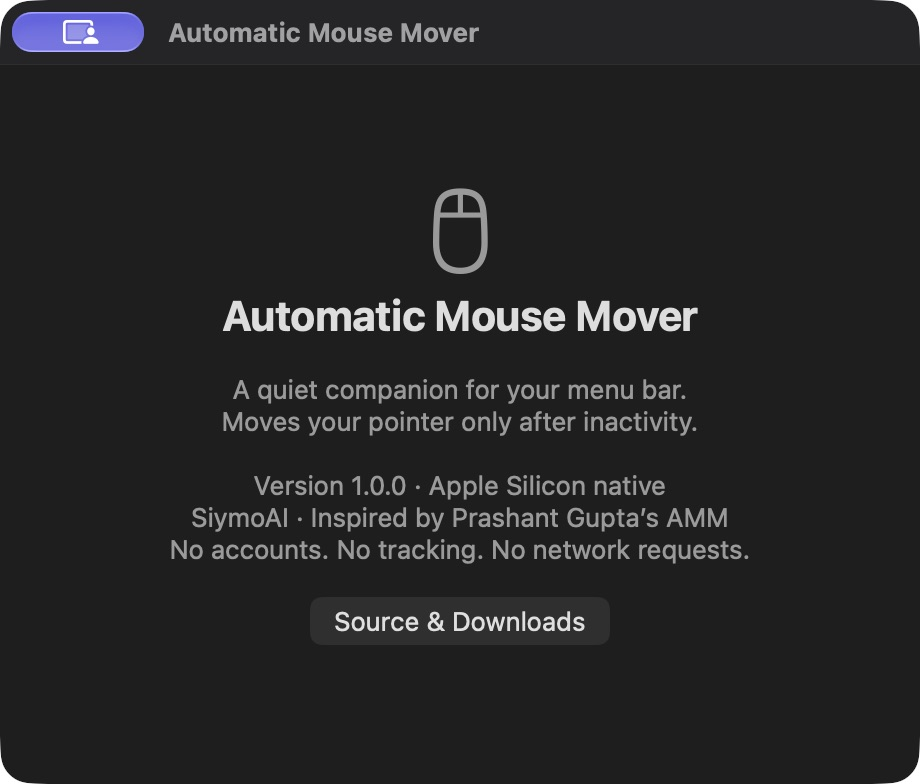
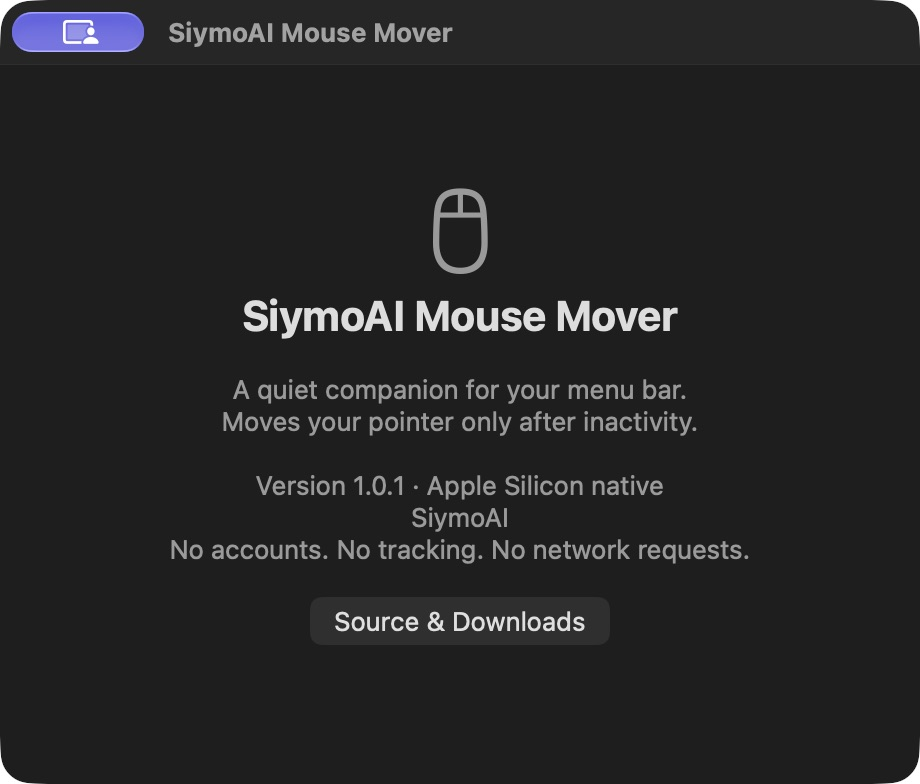
Rebrand desktop apps and installers as SiymoAI Mouse Mover

Changed region(s): [[0.213, 0.5816, 0.7913, 0.6735], [0.2435, 0.3673, 0.7609, 0.4286], [0.1826, 0.0306, 0.5174, 0.0612]]

diff --git a/macos/main.swift b/macos/main.swift
@@ -2,8 +2,8 @@ import AppKit
 import ApplicationServices
 import ServiceManagement
 
-let repository = "https://github.com/SiymoAI/automatic-mouse-mover-native"
-let appVersion = "1.0.0"
+let repository = "https://github.com/SiymoAI/siymo-mouse-mover"
+let appVersion = "1.0.1"
 
 final class AppDelegate: NSObject, NSApplicationDelegate, NSMenuDelegate {
     var statusItem: NSStatusItem!
@@ -40,12 +40,12 @@ final class AppDelegate: NSObject, NSApplicationDelegate, NSMenuDelegate {
         policy.interval = [30,60,120,300].contains(saved) ? Double(saved) : 60
         policy.setEnabled(defaults.object(forKey: "enabled") as? Bool ?? true, now: now)
         statusItem = NSStatusBar.system.statusItem(withLength: NSStatusItem.squareLength)
-        statusItem.button?.image = NSImage(systemSymbolName: "computermouse", accessibilityDescription: "Automatic Mouse Mover")
-        statusItem.button?.setAccessibilityLabel("Automatic Mouse Mover")
+        statusItem.button?.image = NSImage(systemSymbolName: "computermouse", accessibilityDescription: "SiymoAI Mouse Mover")
+        statusItem.button?.setAccessibilityLabel("SiymoAI Mouse Mover")
         menu.delegate = self
         menu.autoenablesItems = false
         stateItem.isEnabled = false; detailItem.isEnabled = false
-        menu.addItem(NSMenuItem(title: "Automatic Mouse Mover", action: nil, keyEquivalent: ""))
+        menu.addItem(NSMenuItem(title: "SiymoAI Mouse Mover", action: nil, keyEquivalent: ""))
         menu.addItem(stateItem); menu.addItem(detailItem); menu.addItem(.separator())
         startItem = add("Start", #selector(start)); stopItem = add("Stop", #selector(stop))
         let interval = NSMenuItem(title: "Move after inactivity", action: nil, keyEquivalent: "")
@@ -58,7 +58,7 @@ final class AppDelegate: NSObject, NSApplicationDelegate, NSMenuDelegate {
         loginItem = add("Launch at login", #selector(toggleLogin))
         menu.addItem(.separator())
         permissionItem = add("Allow mouse movement…", #selector(showPermissions))
-        _ = add("About Automatic Mouse Mover…", #selector(showAbout))
+        _ = add("About SiymoAI Mouse Mover…", #selector(showAbout))
         menu.addItem(.separator()); _ = add("Quit", #selector(quit), key: "q")
         statusItem.menu = menu
         let center = NSWorkspace.shared.notificationCenter
@@ -124,7 +124,7 @@ final class AppDelegate: NSObject, NSApplicationDelegate, NSMenuDelegate {
         loginItem.state = SMAppService.mainApp.status == .enabled ? .on : .off
         permissionItem.isHidden = AXIsProcessTrusted()
         statusItem.button?.appearsDisabled = !policy.enabled
-        statusItem.button?.toolTip = "Automatic Mouse Mover — \(state)"
+        statusItem.button?.toolTip = "SiymoAI Mouse Mover — \(state)"
         writeDiagnostics(state: state)
     }
     @objc func start() { policy.setEnabled(true, now: now); defaults.set(true, forKey: "enabled"); lastMessage = "Waiting for inactivity"; refresh(); if !AXIsProcessTrusted() && !testing { showPermissions() } }
@@ -140,13 +140,13 @@ final class AppDelegate: NSObject, NSApplicationDelegate, NSMenuDelegate {
     func showWindow(permission: Bool) {
         window?.close()
         let panel = NSWindow(contentRect: NSRect(x:0,y:0,width:460,height:360), styleMask: [.titled,.closable], backing: .buffered, defer: false)
-        panel.isReleasedWhenClosed = false; panel.title = permission ? "Allow mouse movement" : "Automatic Mouse Mover"; panel.center()
+        panel.isReleasedWhenClosed = false; panel.title = permission ? "Allow mouse movement" : "SiymoAI Mouse Mover"; panel.center()
         let content = NSStackView(); content.orientation = .vertical; content.alignment = .centerX; content.spacing = 16; content.translatesAutoresizingMaskIntoConstraints = false
         panel.contentView!.addSubview(content)
         NSLayoutConstraint.activate([content.leadingAnchor.constraint(equalTo: panel.contentView!.leadingAnchor, constant: 32), content.trailingAnchor.constraint(equalTo: panel.contentView!.trailingAnchor, constant: -32), content.centerYAnchor.constraint(equalTo: panel.contentView!.centerYAnchor)])
         let icon = NSImageView(image: NSImage(systemSymbolName: "computermouse", accessibilityDescription: nil)!); icon.symbolConfiguration = NSImage.SymbolConfiguration(pointSize: 40, weight: .regular); content.addArrangedSubview(icon)
-        let title = NSTextField(labelWithString: permission ? "One permission. Then you’re set." : "Automatic Mouse Mover"); title.font = .boldSystemFont(ofSize: 21); content.addArrangedSubview(title)
-        let text = NSTextField(wrappingLabelWithString: permission ? "Enable Automatic Mouse Mover in System Settings → Privacy & Security → Accessibility. This lets the app gently move your pointer after you stop using your Mac.\n\nThe app stays in your menu bar. It never records your screen or keystrokes." : "A quiet companion for your menu bar.\nMoves your pointer only after inactivity.\n\nVersion \(appVersion) · Apple Silicon native\nSiymoAI · Inspired by Prashant Gupta’s AMM\nNo accounts. No tracking. No network requests.")
+        let title = NSTextField(labelWithString: permission ? "One permission. Then you’re set." : "SiymoAI Mouse Mover"); title.font = .boldSystemFont(ofSize: 21); content.addArrangedSubview(title)
+        let text = NSTextField(wrappingLabelWithString: permission ? "Enable SiymoAI Mouse Mover in System Settings → Privacy & Security → Accessibility. This lets the app gently move your pointer after you stop using your Mac.\n\nThe app stays in your menu bar. It never records your screen or keystrokes." : "A quiet companion for your menu bar.\nMoves your pointer only after inactivity.\n\nVersion \(appVersion) · Apple Silicon native\nSiymoAI\nNo accounts. No tracking. No network requests.")
         text.alignment = .center; text.font = .systemFont(ofSize: 13); text.textColor = .secondaryLabelColor; content.addArrangedSubview(text)
         let button = NSButton(title: permission ? "Open Accessibility Settings" : "Source & Downloads", target: self, action: permission ? #selector(openAccessibility) : #selector(openSource)); button.bezelStyle = .rounded; content.addArrangedSubview(button)
         window = panel; panel.makeKeyAndOrderFront(nil); NSApp.activate(ignoringOtherApps: true)
@@ -166,7 +166,7 @@ final class AppDelegate: NSObject, NSApplicationDelegate, NSMenuDelegate {
     }
     func selfTest() {
         let previous = defaults.dictionaryRepresentation()
-        let originalEnabled = policy.enabled; let originalInterval = policy.interval
+        let previousEnabled = policy.enabled; let previousInterval = policy.interval
         menu.performActionForItem(at: menu.index(of: stopItem)); let stopOK = !policy.enabled && startItem.isEnabled && !stopItem.isEnabled
         menu.performActionForItem(at: menu.index(of: startItem))
         let startOK = policy.enabled && !startItem.isEnabled && stopItem.isEnabled
@@ -174,7 +174,7 @@ final class AppDelegate: NSObject, NSApplicationDelegate, NSMenuDelegate {
         sleeping = true; refresh(); let sleepOK = !available
         sleeping = false; sessionActive = false; refresh(); let inactiveOK = !available
         sessionActive = true
-        policy.interval = originalInterval; policy.setEnabled(originalEnabled, now: now)
+        policy.interval = previousInterval; policy.setEnabled(previousEnabled, now: now)
         for key in ["enabled","interval"] { if let value = previous[key] { defaults.set(value, forKey: key) } else { defaults.removeObject(forKey: key) } }
         let report: [String:Any] = ["passed":stopOK && startOK && intervalOK && sleepOK && inactiveOK,"stop":stopOK,"start":startOK,"interval":intervalOK,"sleep":sleepOK,"inactiveSession":inactiveOK,"menuBarOnly":NSApp.activationPolicy() == .accessory,"permission":AXIsProcessTrusted(),"architecture":"arm64"]
         if let diagnostics, let data = try? JSONSerialization.data(withJSONObject: report, options: [.prettyPrinted,.sortedKeys]) { try? data.write(to: diagnostics, options:.atomic) }

diff --git a/windows/SiymoMouseMover/Program.cs b/windows/SiymoMouseMover/Program.cs
@@ -1,17 +1,17 @@
 using System.Reflection;
 using System.Text.Json;
 using Microsoft.Win32;
-namespace AutomaticMouseMover;
+namespace SiymoMouseMover;
 internal static class Program
 {
     [STAThread] private static void Main(string[] args) {
         ApplicationConfiguration.Initialize();
-        using var mutex = new Mutex(true, "Local\\SiymoAI.AutomaticMouseMover", out bool created);
+        using var mutex = new Mutex(true, "Local\\SiymoAI.MouseMover", out bool created);
         if (!created) return;
         try { using var context = new TrayApp(args); Application.Run(context); }
         catch (Exception e) {
             if (args.Contains("--self-test")) { var i = Array.IndexOf(args, "--self-test"); if (i + 1 < args.Length) File.WriteAllText(args[i+1], JsonSerializer.Serialize(new { passed = false, error = e.ToString() })); }
-            else MessageBox.Show("Automatic Mouse Mover could not start.\n\n" + e.Message, "Automatic Mouse Mover", MessageBoxButtons.OK, MessageBoxIcon.Error);
+            else MessageBox.Show("SiymoAI Mouse Mover could not start.\n\n" + e.Message, "SiymoAI Mouse Mover", MessageBoxButtons.OK, MessageBoxIcon.Error);
         }
     }
 }
@@ -35,12 +35,12 @@ internal sealed class TrayApp : ApplicationContext
     private readonly Icon appIcon;
     internal TrayApp(string[] args) {
         testing = args.Contains("--self-test");
-        settingsPath = testing ? Path.Combine(Path.GetTempPath(), "amm-tests-" + Guid.NewGuid(), "settings.json") : Settings.DefaultPath;
+        settingsPath = testing ? Path.Combine(Path.GetTempPath(), "siymo-mouse-tests-" + Guid.NewGuid(), "settings.json") : Settings.DefaultPath;
         int d = Array.IndexOf(args, "--diagnostics"); diagnostics = d >= 0 && args.Length > d + 1 ? args[d+1] : null;
         settings = Settings.Load(settingsPath); Policy.IntervalSeconds = settings.IntervalSeconds; Policy.SetEnabled(settings.Enabled, Environment.TickCount64);
-        using var stream = Assembly.GetExecutingAssembly().GetManifestResourceStream("AutomaticMouseMover.AppIcon.ico")!;
+        using var stream = Assembly.GetExecutingAssembly().GetManifestResourceStream("SiymoMouseMover.AppIcon.ico")!;
         appIcon = new Icon(stream);
-        menu.Items.Add(new ToolStripMenuItem("Automatic Mouse Mover") { Enabled = false });
+        menu.Items.Add(new ToolStripMenuItem("SiymoAI Mouse Mover") { Enabled = false });
         state.Enabled = detail.Enabled = false; menu.Items.Add(state); menu.Items.Add(detail); menu.Items.Add(new ToolStripSeparator());
         start.Click += (_,_) => Start(); stop.Click += (_,_) => Stop(); menu.Items.Add(start); menu.Items.Add(stop);
         var interval = new ToolStripMenuItem("Move after inactivity");
@@ -49,9 +49,9 @@ internal sealed class TrayApp : ApplicationContext
             item.Click += (_,_) => SetInterval(seconds); interval.DropDownItems.Add(item); intervalItems.Add(item);
         }
         menu.Items.Add(interval); login.Click += (_,_) => ToggleLogin(); menu.Items.Add(login); menu.Items.Add(new ToolStripSeparator());
-        menu.Items.Add("About Automatic Mouse Mover…", null, (_,_) => ShowAbout()); menu.Items.Add(new ToolStripSeparator()); menu.Items.Add("Quit", null, (_,_) => ExitThread());
+        menu.Items.Add("About SiymoAI Mouse Mover…", null, (_,_) => ShowAbout()); menu.Items.Add(new ToolStripSeparator()); menu.Items.Add("Quit", null, (_,_) => ExitThread());
         menu.Opening += (_,_) => Refresh();
-        tray = new NotifyIcon { Icon = appIcon, Text = "Automatic Mouse Mover", ContextMenuStrip = menu, Visible = true };
+        tray = new NotifyIcon { Icon = appIcon, Text = "SiymoAI Mouse Mover", ContextMenuStrip = menu, Visible = true };
         tray.MouseClick += (_, e) => { if (e.Button == MouseButtons.Left) menu.Show(Cursor.Position); };
         tray.DoubleClick += (_,_) => ShowAbout();
         _ = dispatcher.Handle;
@@ -68,11 +68,11 @@ internal sealed class TrayApp : ApplicationContext
     internal void SetInterval(int seconds) { Policy.IntervalSeconds = seconds; settings.IntervalSeconds = seconds; Policy.Reset(Environment.TickCount64); Save(); Refresh(); }
     private void Save() { try { settings.Save(settingsPath); } catch (Exception e) when (e is IOException or UnauthorizedAccessException) { lastMessage = "Settings could not be saved"; } }
     private static bool LoginEnabled {
-        get { using var key = Registry.CurrentUser.OpenSubKey(@"Software\Microsoft\Windows\CurrentVersion\Run"); return key?.GetValue("SiymoAI.AutomaticMouseMover") as string == "\"" + Application.ExecutablePath + "\""; }
+        get { using var key = Registry.CurrentUser.OpenSubKey(@"Software\Microsoft\Windows\CurrentVersion\Run"); return key?.GetValue("SiymoAI.MouseMover") as string == "\"" + Application.ExecutablePath + "\""; }
     }
     private void ToggleLogin() {
-        try { using var key = Registry.CurrentUser.CreateSubKey(@"Software\Microsoft\Windows\CurrentVersion\Run"); if (LoginEnabled) key.DeleteValue("SiymoAI.AutomaticMouseMover", false); else key.SetValue("SiymoAI.AutomaticMouseMover", "\"" + Application.ExecutablePath + "\""); }
-        catch (Exception e) when (e is UnauthorizedAccessException or System.Security.SecurityException or IOException) { MessageBox.Show("Could not change launch at login.\n" + e.Message, "Automatic Mouse Mover"); }
+        try { using var key = Registry.CurrentUser.CreateSubKey(@"Software\Microsoft\Windows\CurrentVersion\Run"); if (LoginEnabled) key.DeleteValue("SiymoAI.MouseMover", false); else key.SetValue("SiymoAI.MouseMover", "\"" + Application.ExecutablePath + "\""); }
+        catch (Exception e) when (e is UnauthorizedAccessException or System.Security.SecurityException or IOException) { MessageBox.Show("Could not change launch at login.\n" + e.Message, "SiymoAI Mouse Mover"); }
         Refresh();
     }
     private void Tick() {
@@ -89,15 +89,15 @@ internal sealed class TrayApp : ApplicationContext
         string status = !Policy.Enabled ? "Stopped" : suspended || !Native.Available ? "Paused while screen is unavailable" : "Running · moves only when idle";
         state.Text = status; detail.Text = Policy.Enabled ? lastMessage : "Click Start to resume"; start.Enabled = !Policy.Enabled; stop.Enabled = Policy.Enabled;
         foreach (var item in intervalItems) item.Checked = (int)item.Tag! == Policy.IntervalSeconds;
-        login.Checked = LoginEnabled; tray.Text = "Automatic Mouse Mover — " + (Policy.Enabled ? "Running" : "Stopped");
-        if (diagnostics != null) File.WriteAllText(diagnostics, JsonSerializer.Serialize(new { version = "1.0.0", architecture = System.Runtime.InteropServices.RuntimeInformation.ProcessArchitecture.ToString(), state = status, enabled = Policy.Enabled, moves, interval = Policy.IntervalSeconds, available = Native.Available, idleSeconds = Native.IdleSeconds, pid = Environment.ProcessId, session = System.Diagnostics.Process.GetCurrentProcess().SessionId, trayVisible = tray.Visible, mainWindow = System.Diagnostics.Process.GetCurrentProcess().MainWindowHandle.ToInt64() }, new JsonSerializerOptions { WriteIndented = true }));
+        login.Checked = LoginEnabled; tray.Text = "SiymoAI Mouse Mover — " + (Policy.Enabled ? "Running" : "Stopped");
+        if (diagnostics != null) File.WriteAllText(diagnostics, JsonSerializer.Serialize(new { version = "1.0.1", architecture = System.Runtime.InteropServices.RuntimeInformation.ProcessArchitecture.ToString(), state = status, enabled = Policy.Enabled, moves, interval = Policy.IntervalSeconds, available = Native.Available, idleSeconds = Native.IdleSeconds, pid = Environment.ProcessId, session = System.Diagnostics.Process.GetCurrentProcess().SessionId, trayVisible = tray.Visible, mainWindow = System.Diagnostics.Process.GetCurrentProcess().MainWindowHandle.ToInt64() }, new JsonSerializerOptions { WriteIndented = true }));
     }
     private void ShowAbout() {
         if (about is { IsDisposed: false }) { about.Activate(); return; }
-        about = new Form { Text = "Automatic Mouse Mover", ClientSize = new Size(440,330), FormBorderStyle = FormBorderStyle.FixedDialog, MaximizeBox = false, MinimizeBox = false, StartPosition = FormStartPosition.CenterScreen, Icon = appIcon, BackColor = SystemColors.Window };
-        var title = new Label { Text = "Automatic Mouse Mover", Font = new Font("Segoe UI",20,FontStyle.Bold), AutoSize = false, TextAlign = ContentAlignment.MiddleCenter, Dock = DockStyle.Top, Height = 85 };
-        var body = new Label { Text = "A quiet companion for your system tray.\nMoves your pointer only after inactivity.\n\nVersion 1.0.0 · Windows native\nSiymoAI · Inspired by Prashant Gupta’s AMM\n\nNo accounts. No tracking. No network requests.", Font = new Font("Segoe UI",11), AutoSize = false, TextAlign = ContentAlignment.MiddleCenter, Dock = DockStyle.Top, Height = 175 };
-        var button = new Button { Text = "Source && Downloads", Width = 180, Height = 32, Top = 280, Left = 130 }; button.Click += (_,_) => System.Diagnostics.Process.Start(new System.Diagnostics.ProcessStartInfo("https://github.com/SiymoAI/automatic-mouse-mover-native") { UseShellExecute = true });
+        about = new Form { Text = "SiymoAI Mouse Mover", ClientSize = new Size(440,330), FormBorderStyle = FormBorderStyle.FixedDialog, MaximizeBox = false, MinimizeBox = false, StartPosition = FormStartPosition.CenterScreen, Icon = appIcon, BackColor = SystemColors.Window };
+        var title = new Label { Text = "SiymoAI Mouse Mover", Font = new Font("Segoe UI",20,FontStyle.Bold), AutoSize = false, TextAlign = ContentAlignment.MiddleCenter, Dock = DockStyle.Top, Height = 85 };
+        var body = new Label { Text = "A quiet companion for your system tray.\nMoves your pointer only after inactivity.\n\nVersion 1.0.1 · Windows native\nSiymoAI\n\nNo accounts. No tracking. No network requests.", Font = new Font("Segoe UI",11), AutoSize = false, TextAlign = ContentAlignment.MiddleCenter, Dock = DockStyle.Top, Height = 175 };
+        var button = new Button { Text = "Source && Downloads", Width = 180, Height = 32, Top = 280, Left = 130 }; button.Click += (_,_) => System.Diagnostics.Process.Start(new System.Diagnostics.ProcessStartInfo("https://github.com/SiymoAI/siymo-mouse-mover") { UseShellExecute = true });
         about.Controls.Add(body); about.Controls.Add(title); about.Controls.Add(button); about.Show();
     }
     protected override void ExitThreadCore() { timer.Stop(); tray.Visible = false; base.ExitThreadCore(); }

diff --git a/windows/SiymoMouseMover/Settings.cs b/windows/SiymoMouseMover/Settings.cs
@@ -1,10 +1,10 @@
 using System.Text.Json;
-namespace AutomaticMouseMover;
+namespace SiymoMouseMover;
 internal sealed class Settings
 {
     public int IntervalSeconds { get; set; } = 60;
     public bool Enabled { get; set; } = true;
-    public static string DefaultPath => Path.Combine(Environment.GetFolderPath(Environment.SpecialFolder.LocalApplicationData), "SiymoAI", "AutomaticMouseMover", "settings.json");
+    public static string DefaultPath => Path.Combine(Environment.GetFolderPath(Environment.SpecialFolder.LocalApplicationData), "SiymoAI", "SiymoMouseMover", "settings.json");
     public static Settings Load(string path) {
         try { var value = JsonSerializer.Deserialize<Settings>(File.ReadAllText(path)) ?? new(); if (!new[] {30,60,120,300}.Contains(value.IntervalSeconds)) value.IntervalSeconds = 60; return value; }
         catch (Exception e) when (e is IOException or UnauthorizedAccessException or JsonException) { return new(); }

diff --git a/windows/SiymoMouseMover/Native.cs b/windows/SiymoMouseMover/Native.cs
@@ -2,7 +2,7 @@ using System.ComponentModel;
 using System.Diagnostics;
 using System.Runtime.InteropServices;
 using System.Text;
-namespace AutomaticMouseMover;
+namespace SiymoMouseMover;
 internal static class Native
 {
     [StructLayout(LayoutKind.Sequential)] private struct LastInput { public uint Size, Time; }

diff --git a/windows/SiymoMouseMover/MoverPolicy.cs b/windows/SiymoMouseMover/MoverPolicy.cs
@@ -1,4 +1,4 @@
-namespace AutomaticMouseMover;
+namespace SiymoMouseMover;
 internal sealed class MoverPolicy
 {
     public int IntervalSeconds { get; set; } = 60;

diff --git a/README.md b/README.md
@@ -1,6 +1,6 @@
-# Automatic Mouse Mover
+# SiymoAI Mouse Mover
 
-A small menu bar app for **Apple Silicon Macs** and a system tray app for **Windows x64**. Gently moves your pointer after inactivity, with the simple Start / Stop experience of [Prashant Gupta’s original AMM](https://github.com/prashantgupta24/automatic-mouse-mover).
+A small menu bar app for **Apple Silicon Macs** and a system tray app for **Windows x64**. Gently moves your pointer after inactivity, with simple Start / Stop controls.
 
 Built with AppKit / Core Graphics on macOS and WinForms / Win32 on Windows. No terminal windows, accounts, telemetry, browser engine, or background service. The Windows download includes its .NET runtime.
 
@@ -8,28 +8,28 @@ Built with AppKit / Core Graphics on macOS and WinForms / Win32 on Windows. No t
 
 | Platform | Installer | Alternative |
 | --- | --- | --- |
-| Apple Silicon · macOS 13+ | [Download DMG](https://github.com/SiymoAI/automatic-mouse-mover-native/releases/latest/download/Automatic-Mouse-Mover-1.0.0-macos-arm64.dmg) | [App ZIP](https://github.com/SiymoAI/automatic-mouse-mover-native/releases/latest/download/Automatic-Mouse-Mover-1.0.0-macos-arm64.zip) |
-| Windows 10/11 · x64 | [Download Setup](https://github.com/SiymoAI/automatic-mouse-mover-native/releases/latest/download/Automatic-Mouse-Mover-1.0.0-windows-x64-setup.exe) | [Portable ZIP](https://github.com/SiymoAI/automatic-mouse-mover-native/releases/latest/download/Automatic-Mouse-Mover-1.0.0-windows-x64-portable.zip) |
+| Apple Silicon · macOS 13+ | [Download DMG](https://github.com/SiymoAI/siymo-mouse-mover/releases/latest/download/SiymoAI-Mouse-Mover-1.0.1-macos-arm64.dmg) | [App ZIP](https://github.com/SiymoAI/siymo-mouse-mover/releases/latest/download/SiymoAI-Mouse-Mover-1.0.1-macos-arm64.zip) |
+| Windows 10/11 · x64 | [Download Setup](https://github.com/SiymoAI/siymo-mouse-mover/releases/latest/download/SiymoAI-Mouse-Mover-1.0.1-windows-x64-setup.exe) | [Portable ZIP](https://github.com/SiymoAI/siymo-mouse-mover/releases/latest/download/SiymoAI-Mouse-Mover-1.0.1-windows-x64-portable.zip) |
 
-[All releases, checksums, screenshots, and test results](https://github.com/SiymoAI/automatic-mouse-mover-native/releases/latest)
+[All releases, checksums, screenshots, and test results](https://github.com/SiymoAI/siymo-mouse-mover/releases/latest)
 
 ### macOS
 
-1. Open the DMG and drag **Automatic Mouse Mover** to **Applications**.
+1. Open the DMG and drag **SiymoAI Mouse Mover** to **Applications**.
 2. Open the app. Its mouse icon appears in the menu bar; there is no Dock icon.
 3. This release is ad hoc signed, **not Apple-notarized**. If macOS blocks the first launch, open **System Settings → Privacy & Security → Open Anyway** after attempting to open it. Do not disable Gatekeeper.
-4. From the mouse menu, choose **Allow mouse movement…**, then **Open Accessibility Settings**. Enable **Automatic Mouse Mover** under **Privacy & Security → Accessibility**.
+4. From the mouse menu, choose **Allow mouse movement…**, then **Open Accessibility Settings**. Enable **SiymoAI Mouse Mover** under **Privacy & Security → Accessibility**.
 5. The app detects permission changes automatically. Choose **Start** if it is stopped.
 
 No Screen Recording or Input Monitoring permission is required. The app reads elapsed time since input, never keystrokes or screen contents. An installed app needs its own Accessibility approval even if a development test launched from a trusted terminal already works.
 
 ### Windows
 
-1. Run **Automatic-Mouse-Mover-1.0.0-windows-x64-setup.exe**. It installs for your account without administrator privileges and adds a Start Menu shortcut and uninstaller.
-2. Launch **Automatic Mouse Mover** from Start. Its icon appears in the notification area beside the clock. Windows may initially put it under **Show hidden icons**; drag it into the visible tray if preferred.
+1. Run **SiymoAI-Mouse-Mover-1.0.1-windows-x64-setup.exe**. It installs for your account without administrator privileges and adds a Start Menu shortcut and uninstaller.
+2. Launch **SiymoAI Mouse Mover** from Start. Its icon appears in the notification area beside the clock. Windows may initially put it under **Show hidden icons**; drag it into the visible tray if preferred.
 3. Click or right-click the icon for **Start**, **Stop**, and settings. No console or permanent application window appears.
 
-The Windows app and installer are **not Authenticode signed**; Windows may show an unknown-publisher / SmartScreen warning. Verify the SHA-256 checksum and source before choosing to run it. No separately installed .NET runtime is needed. For portable use, extract the ZIP and open `AutomaticMouseMover.exe`.
+The Windows app and installer are **not Authenticode signed**; Windows may show an unknown-publisher / SmartScreen warning. Verify the SHA-256 checksum and source before choosing to run it. No separately installed .NET runtime is needed. For portable use, extract the ZIP and open `SiymoMouseMover.exe`.
 
 ## How it behaves
 
@@ -86,7 +86,7 @@ The preparation script downloads **Inno Setup 6.4.3** from its official release 
 
 ```sh
 # Run with the GUI app closed; saves control and policy checks.
-"build/Automatic Mouse Mover.app/Contents/MacOS/AutomaticMouseMover" \
+"build/SiymoAI Mouse Mover.app/Contents/MacOS/SiymoMouseMover" \
   --self-test --diagnostics "$PWD/build/macos-self-test.json"
 ```
 
@@ -95,7 +95,7 @@ An optional macOS OS-input test can be compiled from `tests/MacInputIntegration.
 On Windows, `scripts/test-windows-interactive.ps1` runs the actual app’s tests in the current signed-in user’s desktop through a temporary named scheduled task. A disconnected or locked desktop intentionally fails its movement assertion. The report and control screenshots go to `artifacts/`. Remove the test task afterward:
 
 ```powershell
-Unregister-ScheduledTask -TaskName AutomaticMouseMover-Native-Test -Confirm:$false
+Unregister-ScheduledTask -TaskName SiymoMouseMover-Native-Test -Confirm:$false
 ```
 
 GitHub Actions builds both installers on every push. Release binaries are published after hardware validation, with checksums.
@@ -104,8 +104,10 @@ GitHub Actions builds both installers on every push. Release binaries are publis
 
 **macOS:** Quit from the menu, turn off Launch at login if enabled, and move the app from Applications to Trash. Remove its Accessibility entry in System Settings if desired.
 
-**Windows:** Quit from the tray, then use **Settings → Apps → Installed apps → Automatic Mouse Mover → Uninstall**. The uninstaller removes the startup entry and shortcuts. Preferences remain in `%LOCALAPPDATA%\SiymoAI\AutomaticMouseMover` so reinstalls retain your choices; delete that folder if you want a clean reset.
+**Windows:** Quit from the tray, then use **Settings → Apps → Installed apps → SiymoAI Mouse Mover → Uninstall**. The uninstaller removes the startup entry and shortcuts. Preferences remain in `%LOCALAPPDATA%\SiymoAI\SiymoMouseMover` so reinstalls retain your choices; delete that folder if you want a clean reset.
 
-## Credits and license
+## License
 
-MIT licensed. This is an independent native reimplementation inspired by **Prashant Gupta’s Automatic Mouse Mover**. The original is Go-based; its latest v1.3.0 binary is Intel-only. Original credit and the MIT notice are retained in [LICENSE](LICENSE). macOS uses only Apple frameworks; Windows uses Microsoft .NET 10 LTS and Win32. Windows installers are built with Jordan Russell and Martijn Laan’s Inno Setup.
+Copyright © 2026 SiymoAI. Released under the [MIT License](LICENSE).
+
+The macOS app uses Apple frameworks; the Windows app uses Microsoft .NET 10 LTS and Win32. Windows installers are built with Inno Setup.

diff --git a/docs/RELEASE_NOTES.md b/docs/RELEASE_NOTES.md
@@ -1,4 +1,4 @@
-Automatic Mouse Mover is now available as a native **Apple Silicon menu bar app** and a **Windows x64 system tray app**.
+SiymoAI Mouse Mover is now available as a native **Apple Silicon menu bar app** and a **Windows x64 system tray app**.
 
 ### Downloads
 
@@ -14,12 +14,12 @@ Built with Apple AppKit / Core Graphics and Microsoft WinForms / Win32. No accou
 
 ### First launch
 
-**macOS 13+, Apple Silicon:** this build is ad hoc signed and **not Apple-notarized**. If blocked, use System Settings → Privacy & Security → Open Anyway after attempting to open the app. Enable **Automatic Mouse Mover** in **Privacy & Security → Accessibility** to allow pointer movement. The app detects the permission change automatically. Do not disable Gatekeeper.
+**macOS 13+, Apple Silicon:** this build is ad hoc signed and **not Apple-notarized**. If blocked, use System Settings → Privacy & Security → Open Anyway after attempting to open the app. Enable **SiymoAI Mouse Mover** in **Privacy & Security → Accessibility** to allow pointer movement. The app detects the permission change automatically. Do not disable Gatekeeper.
 
 **Windows 10/11, x64:** this build is **not Authenticode signed**, so SmartScreen may identify an unknown publisher. Verify the checksum and source. Windows may initially place the icon under **Show hidden icons** beside the clock.
 
 ### Validation
 
-Built and tested on real Apple Silicon macOS and Windows 11 x64 hardware, including actual pointer movement, idle timing, Start / Stop callbacks, interval persistence, screen boundaries, and installed app checks. See [the validation notes](https://github.com/SiymoAI/automatic-mouse-mover-native/blob/main/docs/TESTING.md) for scope and limitations. The separately launched Mac app still needs its own user-approved Accessibility permission.
+Built and tested on real Apple Silicon macOS and Windows 11 x64 hardware, including actual pointer movement, idle timing, Start / Stop callbacks, interval persistence, screen boundaries, and installed app checks. See [the validation notes](https://github.com/SiymoAI/siymo-mouse-mover/blob/main/docs/TESTING.md) for scope and limitations. The separately launched Mac app still needs its own user-approved Accessibility permission.
 
-Screenshots of the native Mac window and Windows tray controls are attached. MIT licensed, with credit to [Prashant Gupta’s original AMM](https://github.com/prashantgupta24/automatic-mouse-mover).
+Screenshots of the native Mac window and Windows tray controls are attached. Copyright © 2026 SiymoAI. MIT licensed.

diff --git a/docs/TESTING.md b/docs/TESTING.md
@@ -1,10 +1,6 @@
-# Validation for v1.0.0
+# Validation for v1.0.1
 
-Tested on 25 October 2026, using a real Apple Silicon Mac and a real Windows 11 x64 computer. The initial Windows development build used .NET 8; the release was rebuilt with **.NET 10 LTS** and the installed app’s interactive test suite was rerun successfully.
-
-## Original app
-
-Cloned `prashantgupta24/automatic-mouse-mover` with GitHub CLI. Inspected its tray controls, activity tracker, movement logic, and MIT license. Downloaded the upstream v1.3.0 `amm.x86.zip`, confirmed that its executable is **x86_64**, and ran it under Rosetta on the Apple Silicon Mac. Its log reported a successful pointer movement after the first 60-second inactivity interval.
+Validated on 26 October 2026, using a real Apple Silicon Mac and a real Windows 11 x64 computer. The Windows app bundles **.NET 10 LTS**. The v1.0.1 branding update was rebuilt and checked on both platforms; runtime behavior is unchanged.
 
 ## macOS arm64
 
